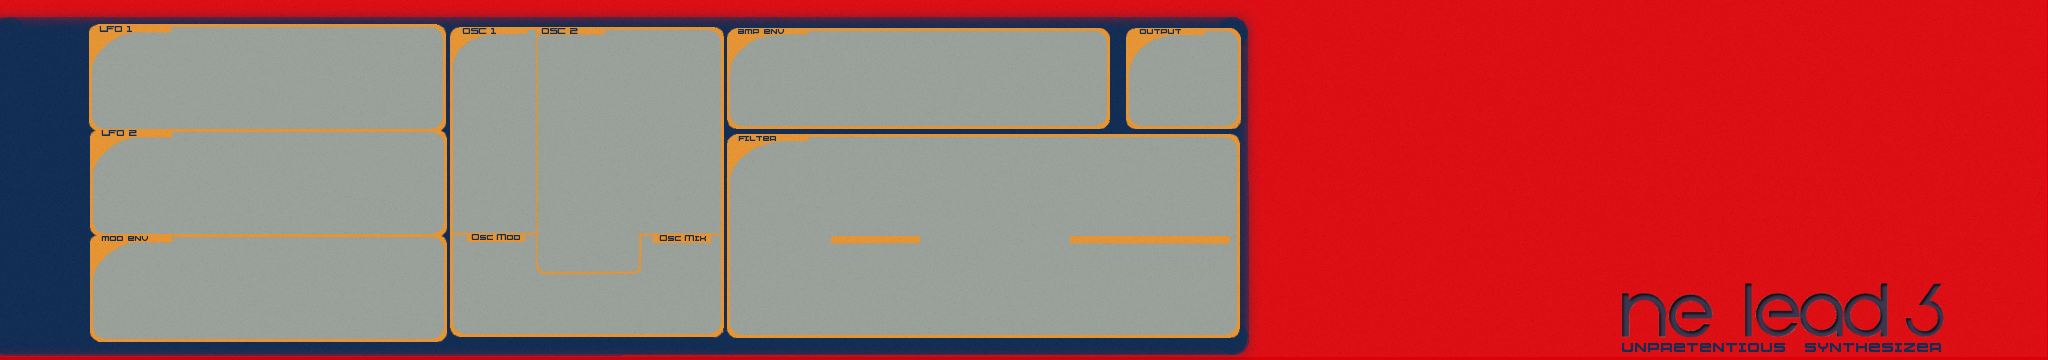
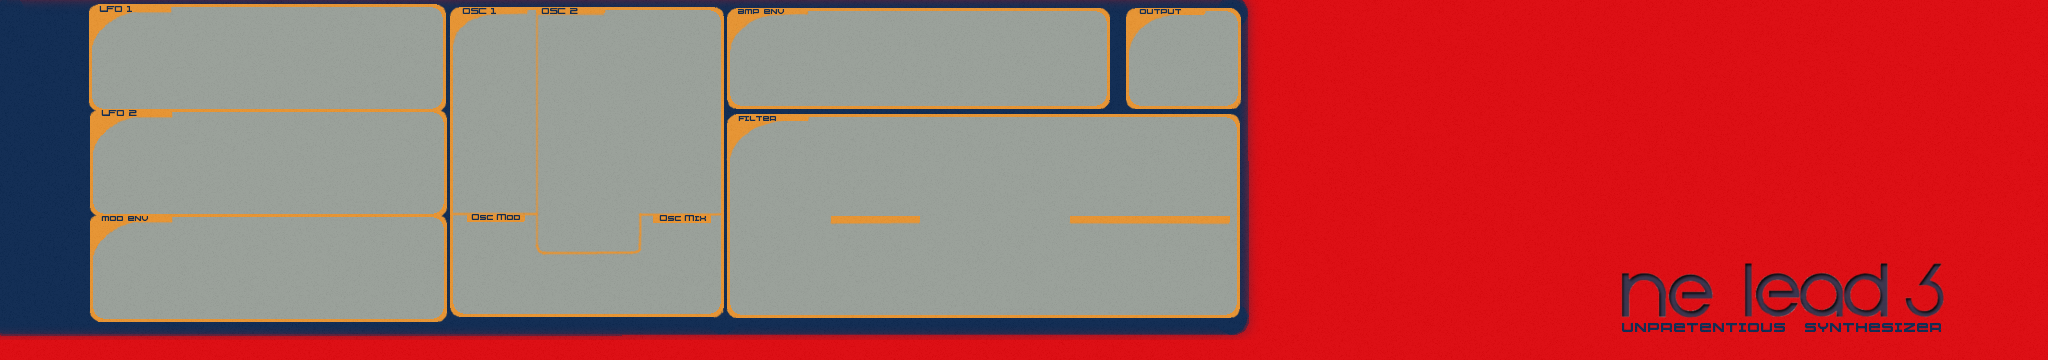
Début de l'interface pour le nelead 6
Former-commit-id: 4fee37d63082d2d15965d019f1e4a2b9e83bb9ae

diff --git a/note.hpp b/note.hpp
@@ -63,13 +63,14 @@ class InstrumentParameter
     InstrumentParameter& operator=(const InstrumentParameter& p);
   
     inline bool active() { return _value ? true : false; }
-    inline void toggle() { _value = _value ? 0 : _max; }
-    inline void on() { _value = _max; }
-    inline void off() { _value = 0; }
+    inline void toggle() { _value = _value ? 0 : _max; notify(); }
+    inline void on() { _value = _max; notify(); }
+    inline void off() { _value = 0; notify(); }
     
     //Set the value with an other value between 0 and max (from the GUI)
     inline void setValueFromUnsigned(unsigned v, unsigned max) { 
       _value = _min + (v*(_max - _min))/max;
+      notify();
       //_value = (v/(float)max)*(float)(_max - _min) + _min;
     }
     
@@ -90,6 +91,8 @@ class InstrumentParameter
     inline short getMin() { return _min; }
     inline short getMax() { return _max; }
     inline unsigned getRange() { return (_max-_min); }
+    inline bool newValue() { return _modified; }
+    inline void valueUsed() { _modified=false; }
     
     short operator++(int);
     short operator--(int);
@@ -97,6 +100,9 @@ class InstrumentParameter
     
     
   private:
+    inline void notify() { _modified=true; }
+  
+    bool _modified;
     short _value;
     short _min;
     short _max;

diff --git a/nelead6.cpp b/nelead6.cpp
@@ -5,8 +5,7 @@ InstrumentVoice(creator),
 _osc1(new SquareOscillator),
 _osc2(new SinusoidalOscillator),
 _lfo1(new SinusoidalOscillator),
-_lfo2(new SinusoidalOscillator),
-_modulation_mode(NELEAD6_FM)
+_lfo2(new SinusoidalOscillator)
 {
   
 }
@@ -41,15 +40,46 @@ void NELead6Voice::endNote()
 
 void NELead6Voice::step(Signal* output)
 {
-  if (_modulation_mode==NELEAD6_RM)
+  _osc1->step(output);
+}
+
+NELead6::NELead6() :
+Instrument()
+ {
+ }
+ 
+NELead6::~NELead6()
+{
+}
+
+InstrumentParameter* NELead6::getParameter(unsigned char id)
+{
+  return Instrument<NELead6Voice>::getParameter(id);
+}
+
+void NELead6::step(Signal* output)
+{
+  Instrument<NELead6Voice>::step(output);
+}
+
+NELead6Interface::NELead6Interface(NELead6* instrument, const sf::Vector2f& size):
+Interface(sf::Vector2i(2048,360),size),
+_texture(),
+_back(),
+_instrument(instrument)
+{
+  if (_instrument && _texture.loadFromFile("img/nelead6.png"))
   {
-    _osc1->step(output);
-    output->mix(_osc2->generate());
+    _back.setTexture(_texture);
+    _back.setTextureRect(sf::IntRect(0,0,2048,360));
+
+    addDrawable(&_back);
   }
-  else
-  {
-    //_osc2->step(_osc1->fm);
-    _osc1->step(output);
-  }
+
+}
+
+NELead6Interface::~NELead6Interface()
+{
+
 }
 

diff --git a/note.cpp b/note.cpp
@@ -62,28 +62,36 @@ Note& Note::operator=(const Note& c)
 }
 
 InstrumentParameter::InstrumentParameter(short value, short min, short max) :
+_modified(true),
 _value(value),
 _min(min),
 _max(max)
 {
+  notify();
 }
 
 InstrumentParameter::InstrumentParameter(const InstrumentParameter& p) :
+_modified(true),
 _value(p._value),
 _min(p._min),
 _max(p._max)
 {
+  notify();
 }
 
 short InstrumentParameter::operator++(int) { 
-  _value++; 
-  if (_value > _max) {_value=_min; return _max;} 
+  _value++;
+
+  if (_value > _max) {_value=_min; notify(); return _max;}
+  else notify();
   return _value-1;
 }
 
 short InstrumentParameter::operator--(int){
   _value--; 
-  if (_value < _min) {_value=_max; return _min;}
+  
+  if (_value < _min) {_value=_max; notify(); return _min;}
+  else notify();
   return _value + 1;
 }
 
@@ -92,6 +100,7 @@ InstrumentParameter& InstrumentParameter::operator=(const InstrumentParameter& p
   _value = p._value;
   _min = p._min;
   _max = p._max;
+  notify();
   return *this;
 }
 
@@ -99,7 +108,9 @@ bool InstrumentParameter::setValue(short v)
 {
   if (v>=_min && v <= _max)
   {
-    _value=v; return true;
+    _value=v; 
+    notify();
+    return true;
   }
   return false;
 }

diff --git a/interface.cpp b/interface.cpp
@@ -88,8 +88,8 @@ _current_offset(0),
 _zone_size(zone),
 _horizontal(h)
 {
-  _bar.setFillColor(sf::Color(242,42,42,140));
-  _decoration.setFillColor(sf::Color(42,42,42,140));
+  _bar.setFillColor(sf::Color(142,142,142,200));
+  _decoration.setFillColor(sf::Color(100,100,100,200));
   if (_horizontal) {
     _current_offset = _view->getCenter().x-view.getSize().x/2;
   }
@@ -112,7 +112,7 @@ bool ScrollBar::onMousePress(float x, float y)
   {
     if (_horizontal) _catch=x-_bar.getPosition().x;
     else _catch=y-_bar.getPosition().y;
-    _bar.setFillColor(sf::Color(242,42,42,255));
+    _bar.setFillColor(sf::Color(142,42,42,255));
     return true;
   }
   return false;
@@ -137,7 +137,7 @@ void ScrollBar::onMouseMove(float x, float y){
 }
 void ScrollBar::onMouseRelease(float x, float y)
 {
-  _bar.setFillColor(sf::Color(242,42,42,140));
+  _bar.setFillColor(sf::Color(142,142,142,200));
 }
 
 void ScrollBar::draw (sf::RenderTarget &target, sf::RenderStates states) const

diff --git a/nelead6.hpp b/nelead6.hpp
@@ -4,7 +4,7 @@
 
 #include "instrument.hpp"
 #include "oscillator.hpp"
-
+#include "interface.hpp"
 
 //modulation modes
 #define NELEAD6_FM 0
@@ -25,7 +25,31 @@ class NELead6Voice : public InstrumentVoice
     Oscillator* _osc2;
     Oscillator* _lfo1;
     Oscillator* _lfo2;
-    unsigned char _modulation_mode;
 };
+
+
+class NELead6 : public Instrument<NELead6Voice>
+{
+  public: 
+    NELead6();
+    virtual ~NELead6();
+    
+    virtual InstrumentParameter* getParameter(unsigned char id);
+    virtual void step(Signal* output);
+}; 
+
+class NELead6Interface : public Interface
+{
+  public:
+    NELead6Interface(NELead6* instrument, const sf::Vector2f& size);
+    virtual ~NELead6Interface();
+    
+  protected:
+    sf::Texture _texture;
+    sf::Sprite _back;
+    NELead6* _instrument;
+};
+
+
 
 #endif

diff --git a/main.cpp b/main.cpp
@@ -50,8 +50,8 @@ int main()
   
   float dt=0.02;
   unsigned int time=0;
-  PureSquare lead;      
-  Interface* lolinterface = new PureSquareInterface(&lead,sf::Vector2f(720,360));    
+  NELead6 lead;      
+  Interface* lolinterface = new NELead6Interface(&lead,sf::Vector2f(720,360));    
   
   Signal output;
   bool sendSignalSuccess=true;
